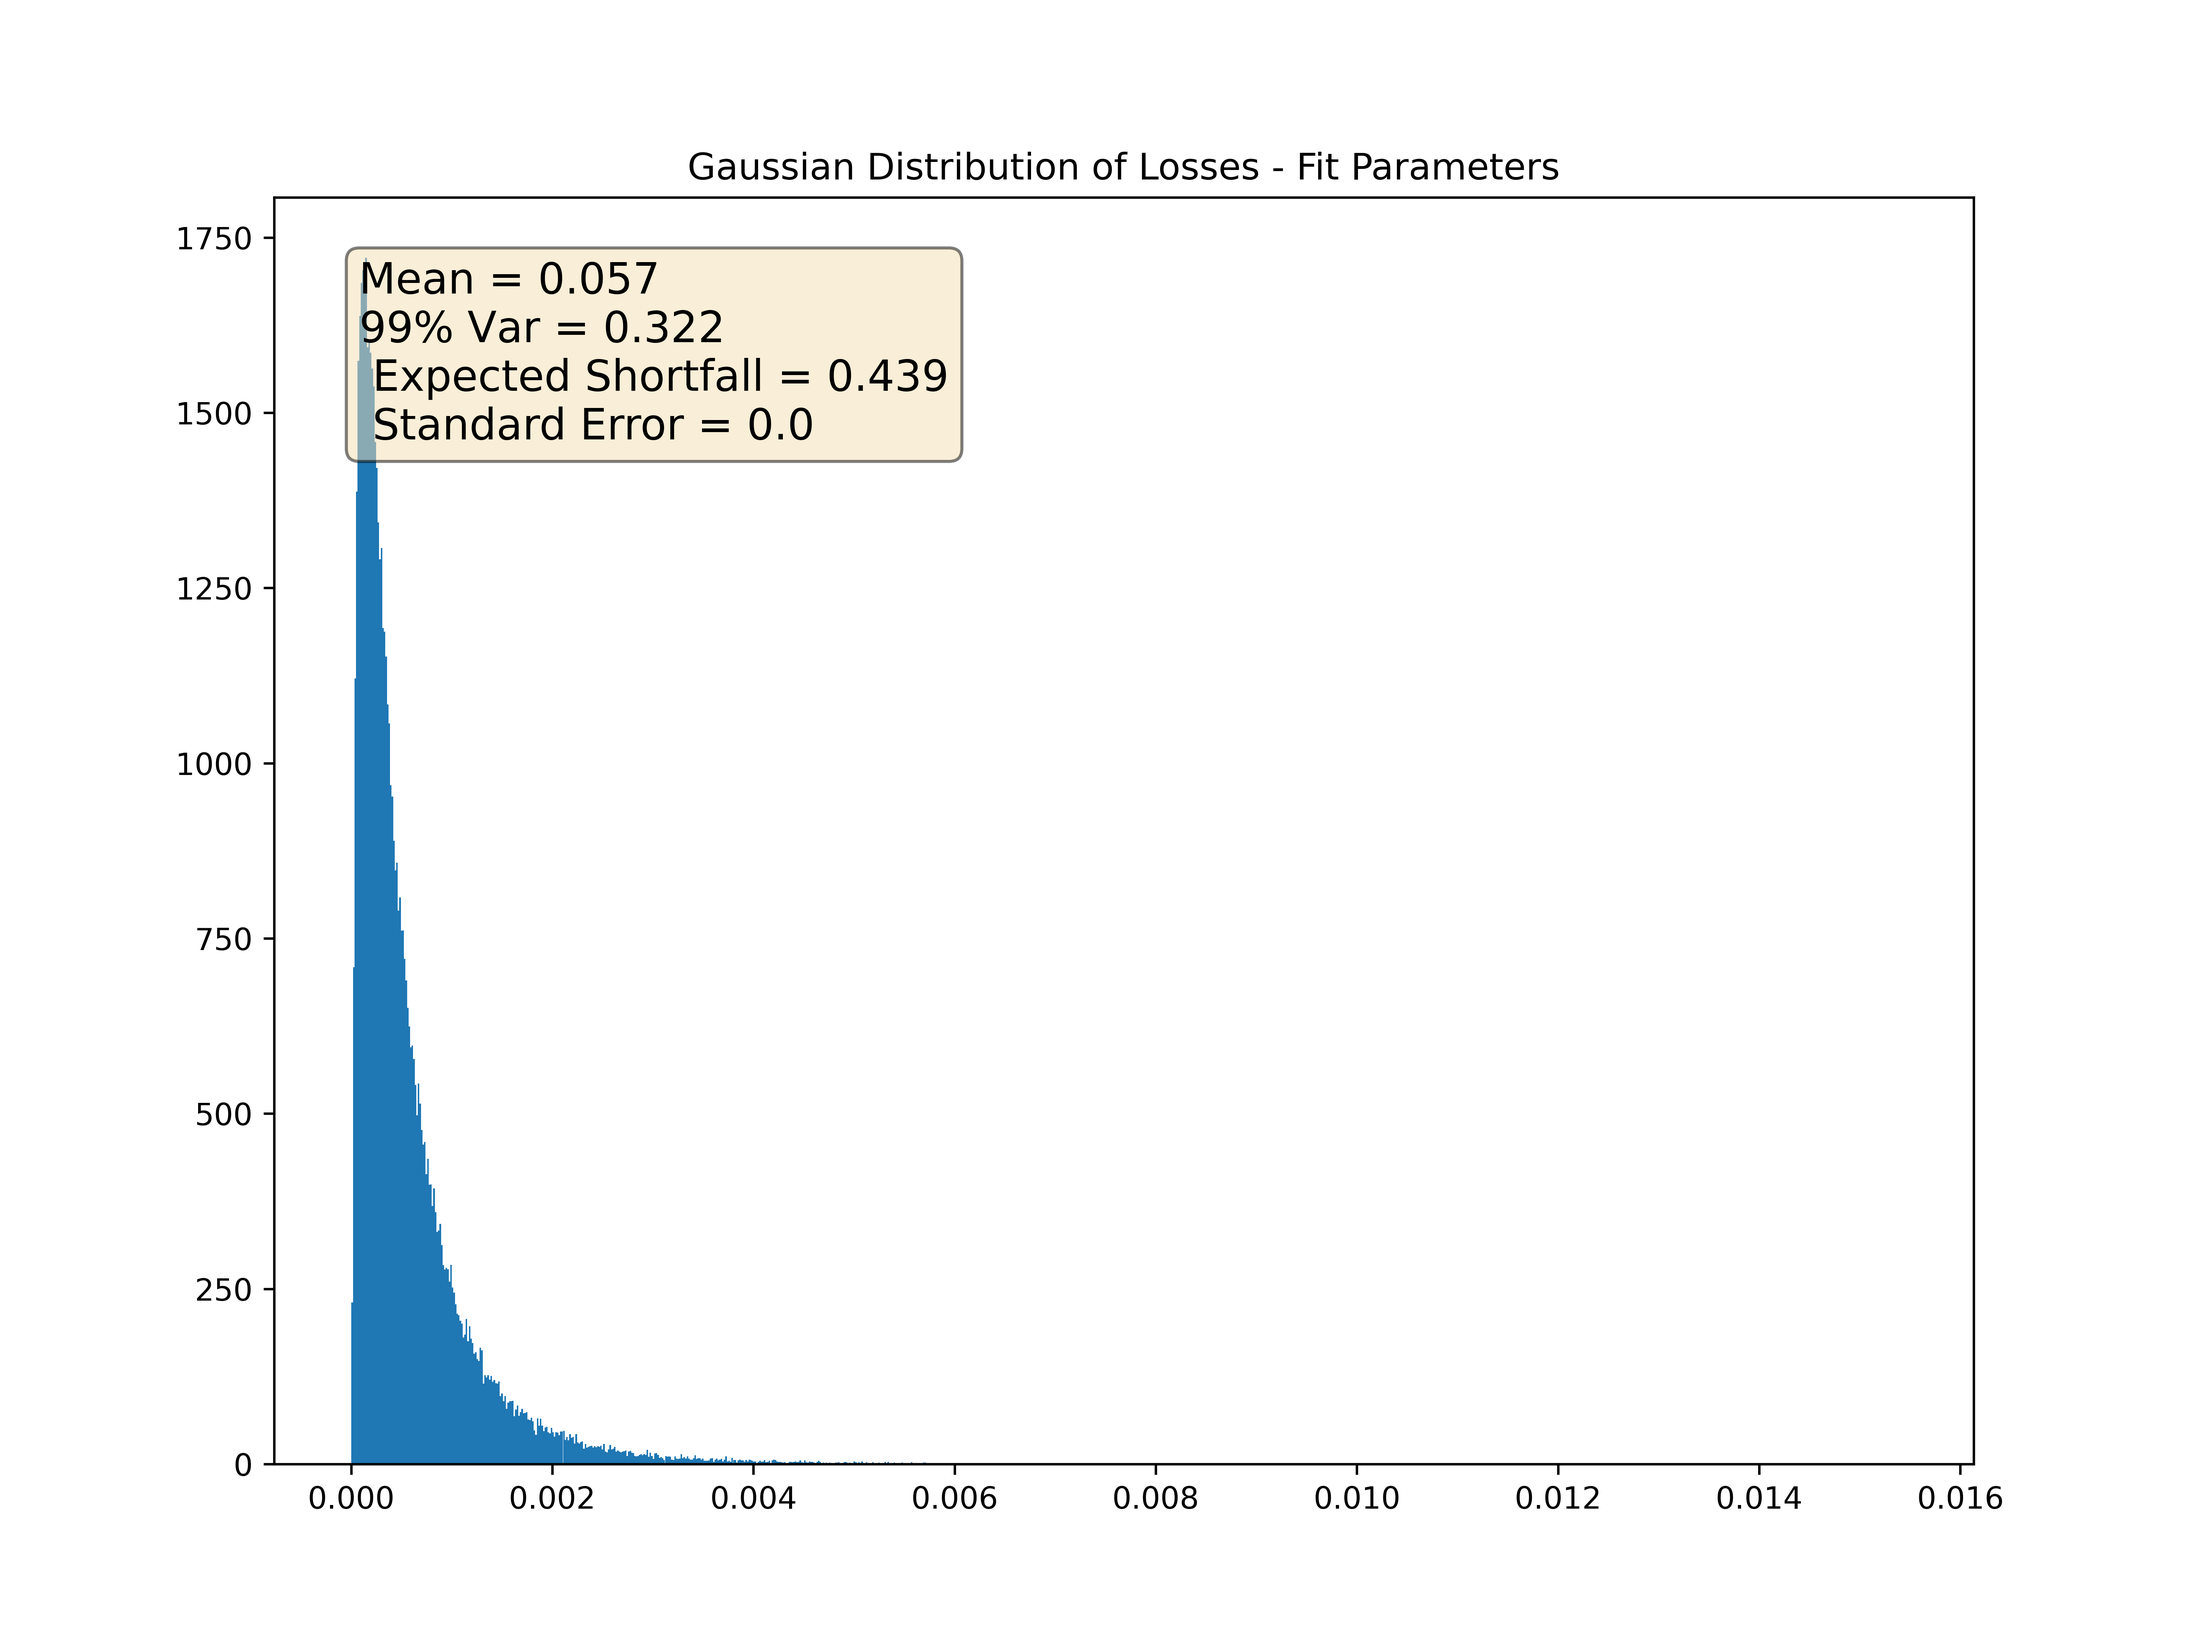
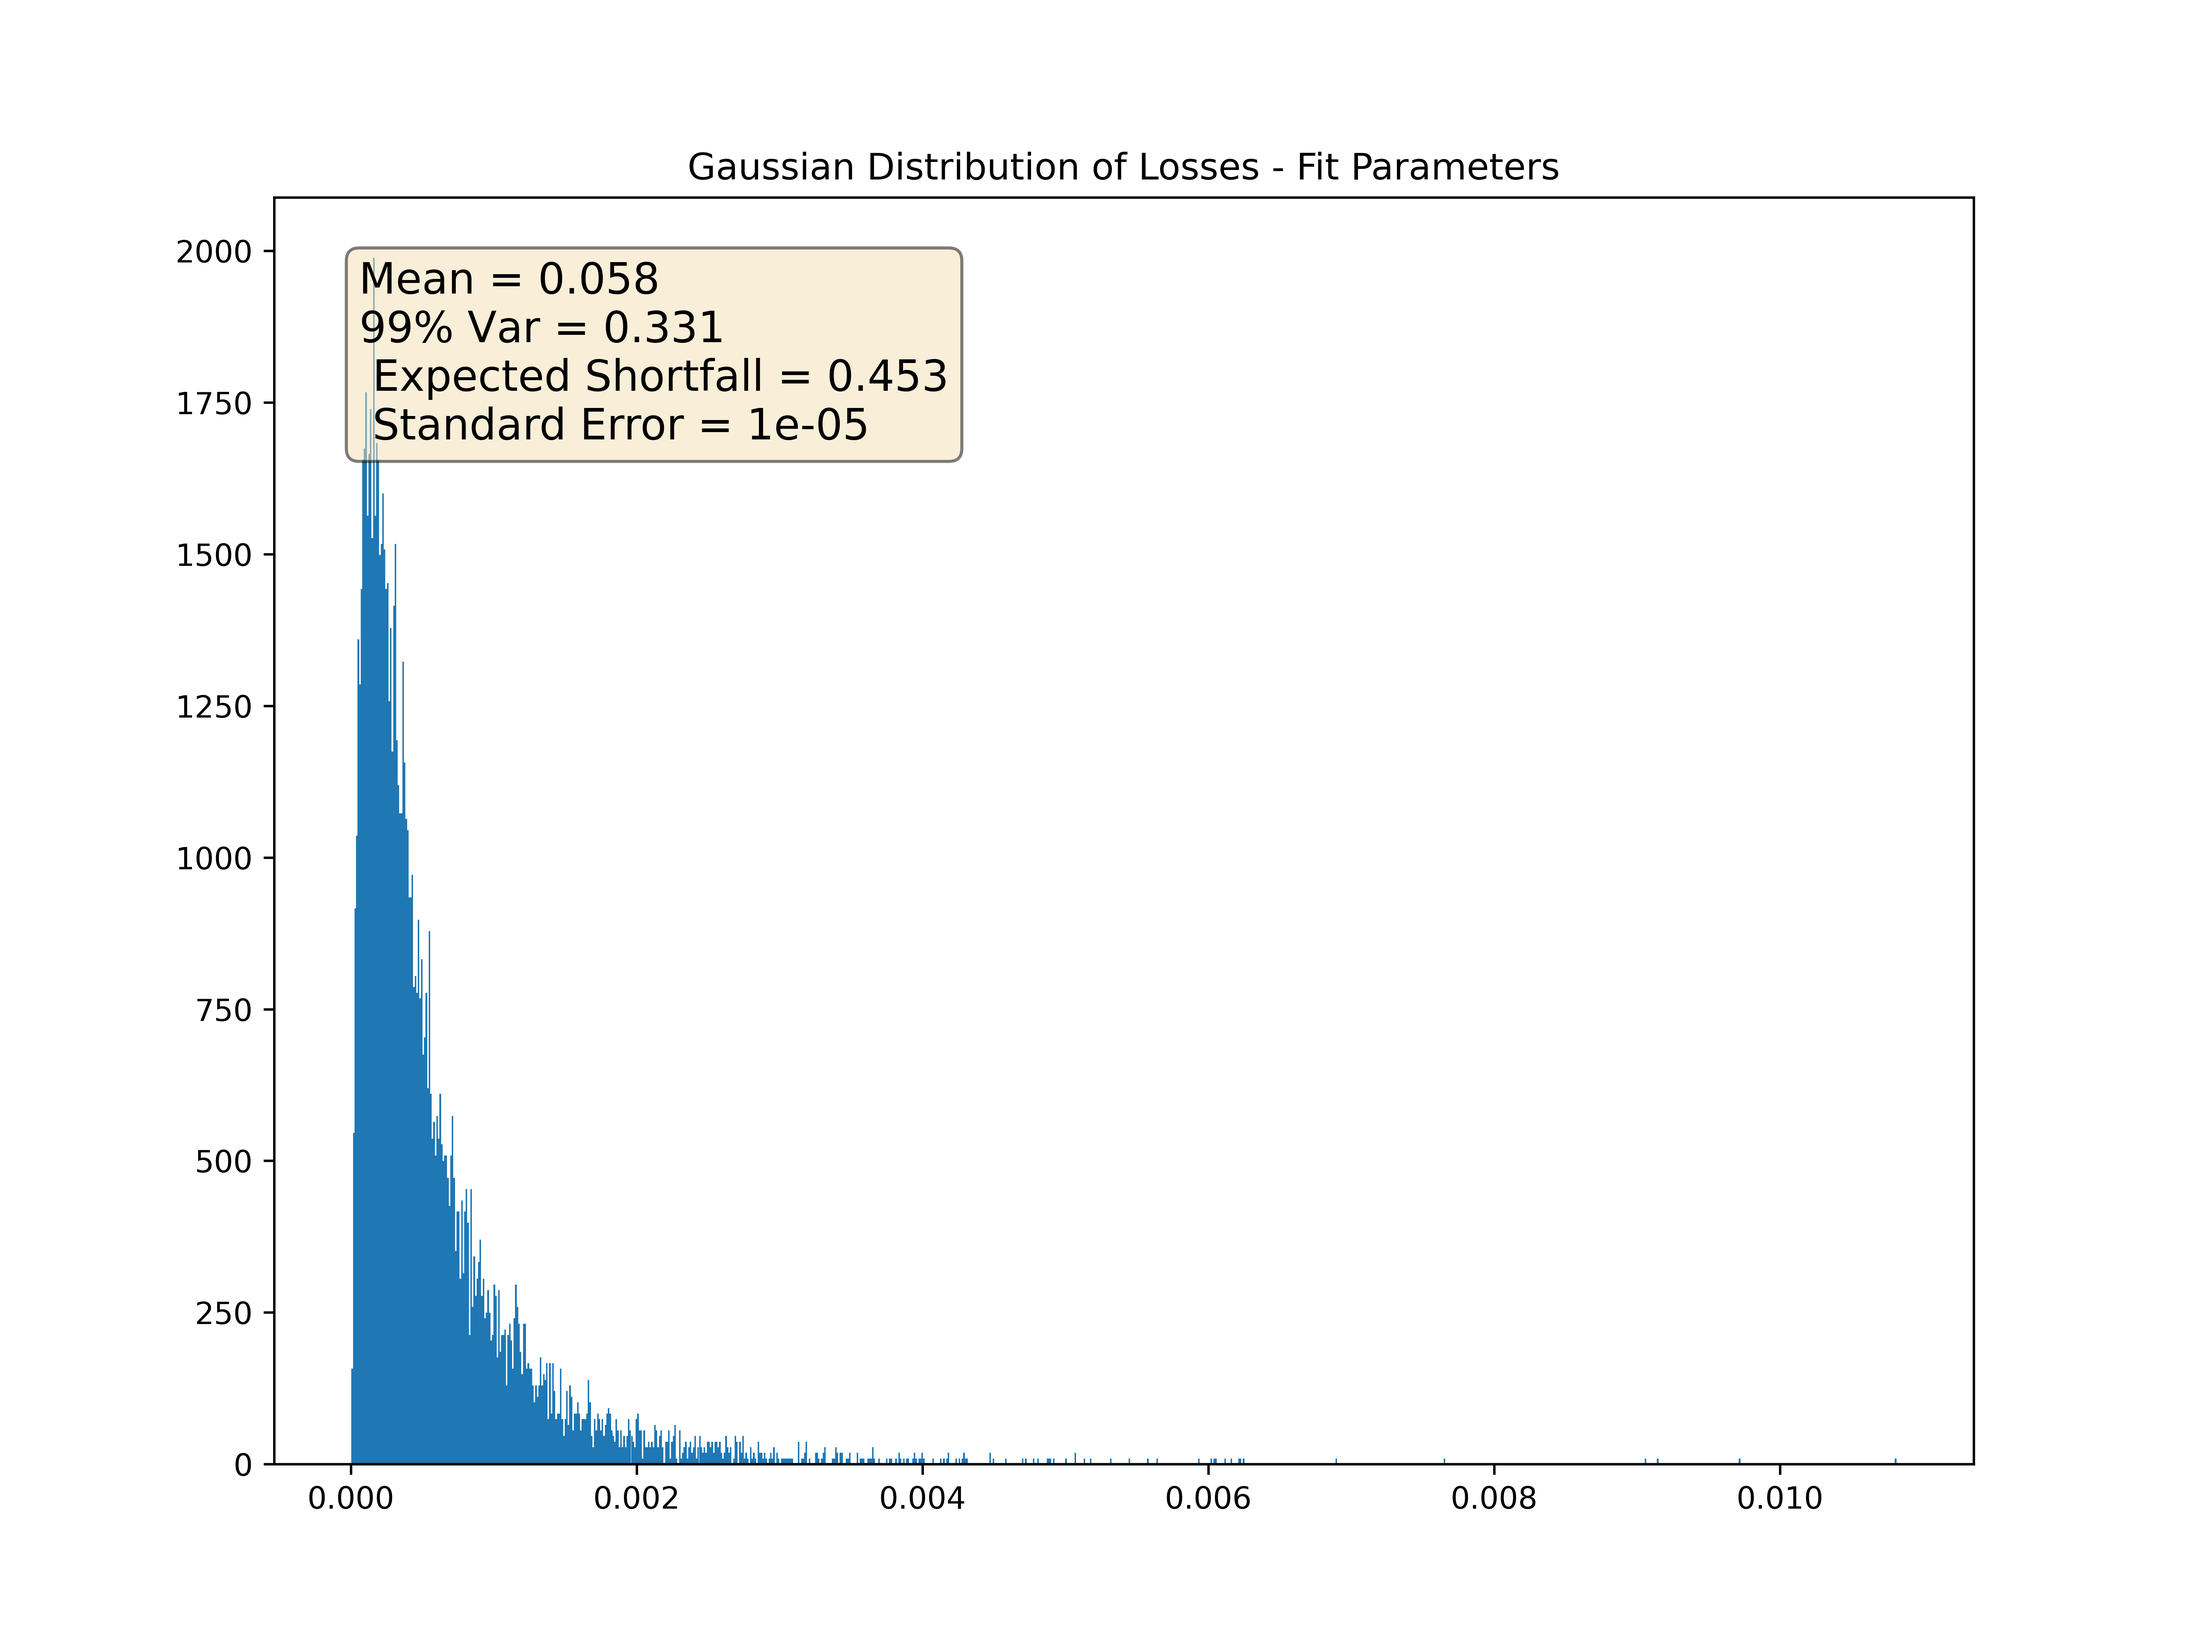
Copula Fixed

diff --git a/main.py b/main.py
@@ -6,6 +6,7 @@ import scipy.stats as stats
 import matplotlib.pyplot as plt
 import pandas as pd
 
+trials = 10000
 
 all_data = df.get_data()
 
@@ -18,11 +19,7 @@ curr = curr.reset_index()
 loans = int(np.floor(np.sum(curr["CURR_LOANS"]) * 0.01))
 
 def t_inv(x, df):
-    res = np.zeros(len(x))
-    for i in range(len(x)):
-        res[i] = np.sqrt(np.sum(np.power(stats.norm.rvs(size = df), 2)) / df) * stats.t.ppf(x[i], df = df)
-    
-    return res
+    return np.sqrt(np.sum(np.power(stats.norm.rvs(size = df), 2)) / df) * stats.t.ppf(x, df = df)
 
 
 loan_weight = np.zeros(loans) +  1 / loans
@@ -37,7 +34,7 @@ for index, row in curr.iterrows():
     loan_pd[low_index:high_index] = np.mean(curr.loc[np.logical_and(all_data["CREDIT_BUCKET"] == row["CREDIT_BUCKET"], all_data["NEW_LOAN"] == row["NEW_LOAN"]), "PD"])
     low_index += min(int(np.floor(row["CURR_LOANS"] * .01) - 1), loans)
 
-res = np.sort(vl.Copula_Loop(loan_weight, loan_corr, loan_pd, lambda x: stats.norm.rvs(size = x), lambda x: stats.norm.ppf(x), lambda x: stats.norm.cdf(x), 100000))
+res = np.sort(vl.Copula_Loop(loan_weight, loan_corr, loan_pd, lambda x: stats.norm.rvs(size = x), lambda x: stats.norm.ppf(x), lambda x: stats.norm.cdf(x), trials))
 
 plt.figure(figsize=(10,7.5))
 
@@ -56,7 +53,7 @@ plt.text((plt.xlim()[1] - plt.xlim()[0]) * 0.05 + plt.xlim()[0], plt.ylim()[1] -
 plt.savefig(r"Plots\Gaussian_Distribution_Base.png", dpi = 600)
 plt.cla()
 
-res = np.sort(vl.Copula_Loop(loan_weight, loan_corr, loan_pd, lambda x: stats.norm.rvs(size = x), lambda x: t_inv(x, df = 2), lambda x: stats.norm.cdf(x), 100000))
+res = np.sort(vl.Copula_Loop(loan_weight, loan_corr, loan_pd, lambda x: stats.norm.rvs(size = x), lambda x: t_inv(x, df = 2), lambda x: stats.norm.cdf(x), trials))
 
 plt.figure(figsize=(10,7.5))
 
@@ -87,7 +84,7 @@ for index, row in curr.iterrows():
     loan_pd[low_index:high_index] = fit_data.loc[np.logical_and(fit_data["CREDIT_BUCKET"] == row["CREDIT_BUCKET"], fit_data["NEW_LOAN"] == row["NEW_LOAN"]),"norm_PD"]
     low_index += min(int(np.floor(row["CURR_LOANS"] * .01) - 1), loans)
 
-res = np.sort(vl.Copula_Loop(loan_weight, loan_corr, loan_pd, lambda x: stats.norm.rvs(size = x), lambda x: stats.norm.ppf(x), lambda x: stats.norm.cdf(x), 100000))
+res = np.sort(vl.Copula_Loop(loan_weight, loan_corr, loan_pd, lambda x: stats.norm.rvs(size = x), lambda x: stats.norm.ppf(x), lambda x: stats.norm.cdf(x), trials))
 
 plt.figure(figsize=(10,7.5))
 
@@ -106,7 +103,7 @@ plt.text((plt.xlim()[1] - plt.xlim()[0]) * 0.05 + plt.xlim()[0], plt.ylim()[1] -
 plt.savefig(r"Plots\Gaussian_Distribution_Fit.png", dpi = 600)
 plt.cla()
 
-res = np.sort(vl.Copula_Loop(loan_weight, loan_corr, loan_pd, lambda x: stats.norm.rvs(size = x), lambda x: t_inv(x, df = 2), lambda x: stats.norm.cdf(x), 100000))
+res = np.sort(vl.Copula_Loop(loan_weight, loan_corr, loan_pd, lambda x: stats.norm.rvs(size = x), lambda x: t_inv(x, df = 2), lambda x: stats.norm.cdf(x), trials))
 
 plt.figure(figsize=(10,7.5))
 

diff --git a/Functions/vasicek_loop.py b/Functions/vasicek_loop.py
@@ -7,8 +7,6 @@ def Copula_Loop(Loan_weight, loan_corr, Unconditional_Default, y_gen_function, f
 
     #Assign memory for trial outcomes
     trial_default = np.zeros(trials)
-
-    un_con_pd = f_inv(Unconditional_Default)    
     
     #Generate a random variable Y for the systematic risk
     y = y_gen_function(trials)
@@ -17,7 +15,7 @@ def Copula_Loop(Loan_weight, loan_corr, Unconditional_Default, y_gen_function, f
     for trial in range(trials):
 
         #Expected Loss calcualtion
-        trial_default[trial] = np.sum(Loan_weight * g_cdf((un_con_pd - np.sqrt(loan_corr) * y[trial]) / np.sqrt(1 - loan_corr)))
+        trial_default[trial] = np.sum(Loan_weight * g_cdf((f_inv(Unconditional_Default)  - np.sqrt(loan_corr) * y[trial]) / np.sqrt(1 - loan_corr)))
 
     return trial_default
 
